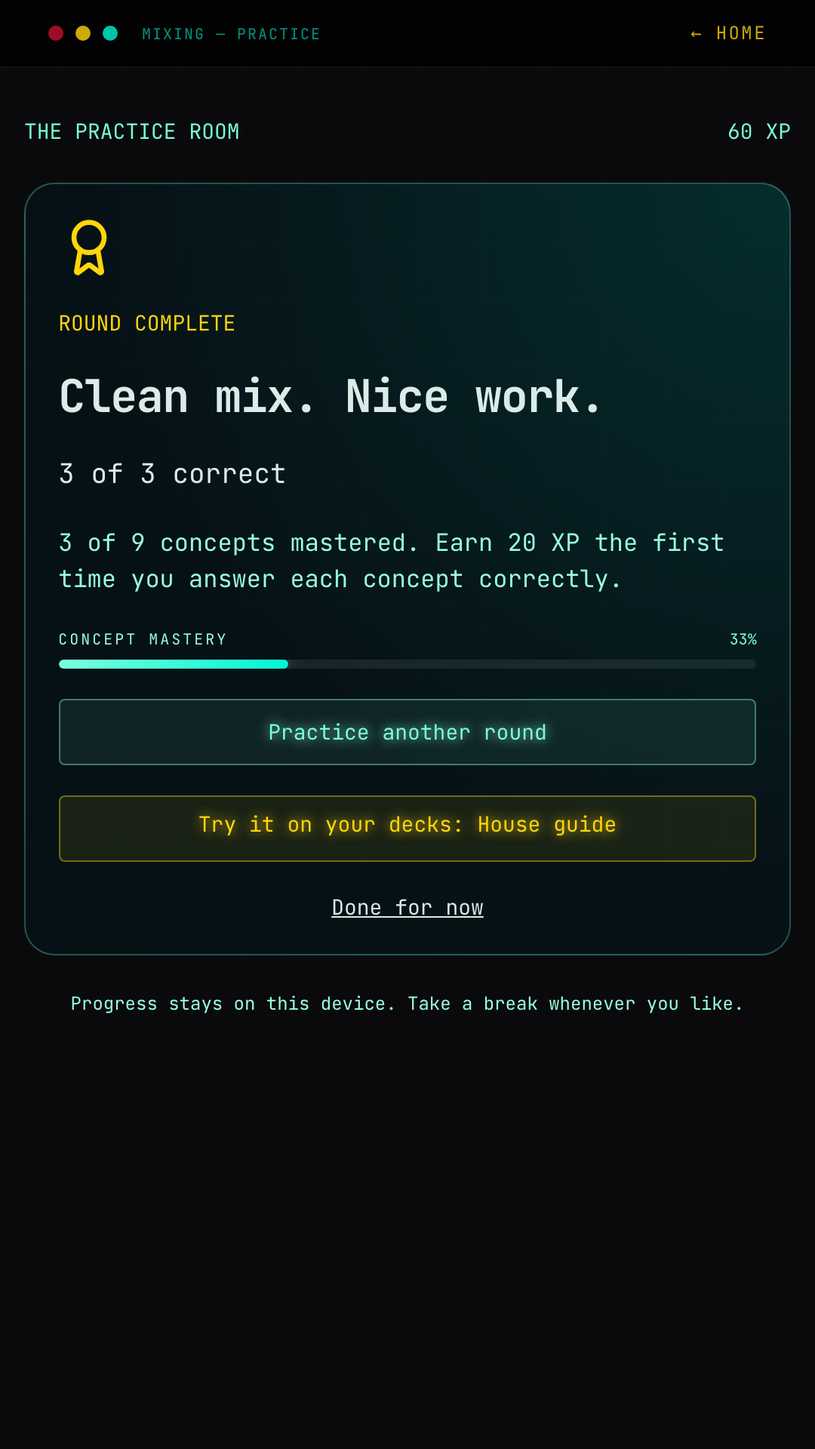
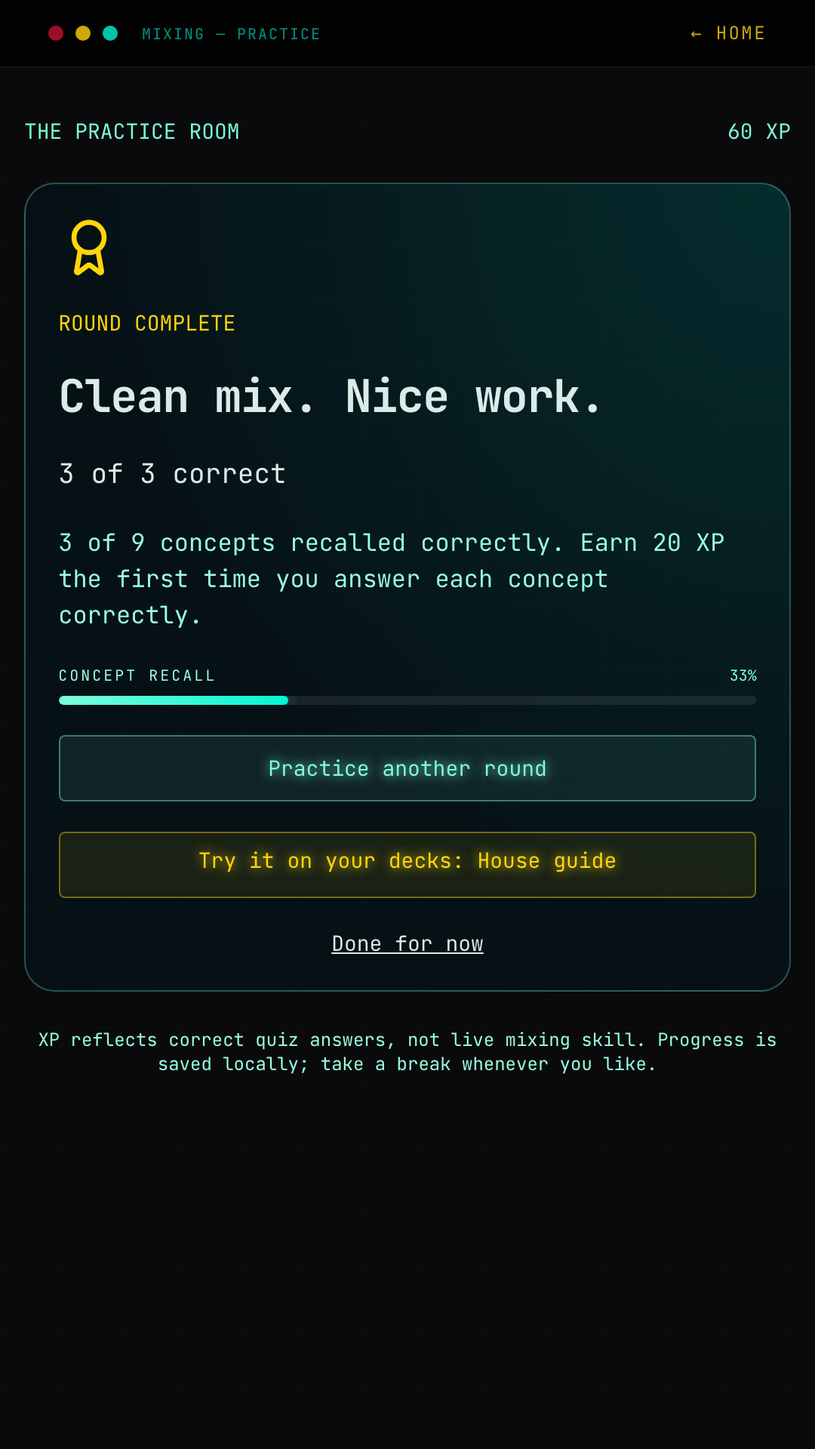
Complete conceptual practice claims and learner pilot preparation

diff --git a/src/pages/PracticePage.tsx b/src/pages/PracticePage.tsx
@@ -38,8 +38,8 @@ export default function PracticePage() {
         <p className="text-secondary text-sm">ROUND COMPLETE</p>
         <h1 ref={headingRef} id="result-heading" tabIndex={-1} className="text-3xl font-bold">{score === 3 ? 'Clean mix. Nice work.' : 'Every mix teaches you something.'}</h1>
         <p className="text-lg">{score} of 3 correct</p>
-        <p className="text-muted-foreground">{state.mastered.length} of {questions.length} concepts mastered. Earn 20 XP the first time you answer each concept correctly.</p>
-        <ProgressBar progress={state.mastered.length / questions.length * 100} label="Concept mastery" />
+        <p className="text-muted-foreground">{state.mastered.length} of {questions.length} concepts recalled correctly. Earn 20 XP the first time you answer each concept correctly.</p>
+        <ProgressBar progress={state.mastered.length / questions.length * 100} label="Concept recall" />
         <button className="btn-neon-primary w-full" onClick={() => { setReview(null); update(startRound(state)); }}>Practice another round</button>
         <Link to="/genre/house" className="btn-neon-secondary block text-center">Try it on your decks: House guide</Link>
         <Link to="/" className="block text-center text-sm underline">Done for now</Link>
@@ -60,7 +60,7 @@ export default function PracticePage() {
           <button className="btn-neon-primary w-full" onClick={() => setReview(null)}>{active.answers.length === 3 ? 'See my results' : 'Next question'}</button>
         </div>}
       </section>}
-      <p className="text-xs text-muted-foreground text-center">Progress stays on this device. Take a break whenever you like.</p>
+      <p className="text-xs text-muted-foreground text-center">XP reflects correct quiz answers, not live mixing skill. Progress is saved locally; take a break whenever you like.</p>
     </main>
   </div>;
 }

diff --git a/src/pages/Index.tsx b/src/pages/Index.tsx
@@ -69,7 +69,7 @@ const Index = () => {
         <section className="practice-panel practice-hero">
           <div className="flex flex-wrap items-center justify-between gap-3 text-xs text-primary">
             <span>YOUR NEXT GREAT MIX STARTS HERE</span>
-            <span>{practice.mastered.length * 20} XP · {practice.mastered.length}/{questions.length} mastered</span>
+            <span>{practice.mastered.length * 20} XP · {practice.mastered.length}/{questions.length} recalled</span>
           </div>
           <h1 className="mt-5 text-3xl sm:text-5xl font-bold leading-tight max-w-xl">Less guessing.<br /><span className="text-primary">Better mixing.</span></h1>
           <p className="mt-4 max-w-lg text-sm sm:text-base text-muted-foreground leading-relaxed">Build your DJ instincts, one small win at a time. Learn a move, make a decision, then try it on your decks.</p>

diff --git a/tests/practice.test.ts b/tests/practice.test.ts
@@ -52,3 +52,18 @@ describe('resilient saved checklists', () => {
     expect(writeStorage('missing', {})).toBe(false);
   });
 });
+
+describe('recall evidence across repeat practice', () => {
+  it('caps rewards at nine unique concepts across repeated rounds and persisted reloads', () => {
+    let state = emptyPractice;
+    for (let round = 0; round < 6; round++) {
+      state = startRound(parsePractice(JSON.parse(JSON.stringify(state))));
+      for (const id of state.active!.ids) {
+        state = answerQuestion(state, questions.find(question => question.id === id)!.answer);
+      }
+      expect(state.mastered.length * 20).toBe(Math.min(round + 1, 3) * 60);
+    }
+    expect(state.rounds).toBe(6);
+    expect(state.mastered).toHaveLength(9);
+  });
+});

diff --git a/tests/e2e/app.spec.ts b/tests/e2e/app.spec.ts
@@ -19,8 +19,10 @@ test('practice loop, reload, rewards, and return home', async ({ page }) => {
   await page.getByRole('button', { name: 'See my results' }).click();
   await expect(page.getByText('2 of 3 correct')).toBeVisible();
   await expect(page.getByText('40 XP', { exact: true })).toBeVisible();
+  await expect(page.getByText(/XP reflects correct quiz answers, not live mixing skill/)).toBeVisible();
+  await expect(page.getByText(/2 of 9 concepts recalled correctly/)).toBeVisible();
   await page.getByRole('link', { name: 'Done for now' }).click();
-  await expect(page.getByText(/40 XP · 2\/9 mastered/)).toBeVisible();
+  await expect(page.getByText(/40 XP · 2\/9 recalled/)).toBeVisible();
   expect(errors).toEqual([]);
 });
 

diff --git a/docs/learner-pilot.md b/docs/learner-pilot.md
@@ -1,0 +1,60 @@
+# Learner pilot and manual measurement — DJ-04
+
+Status: prepared, not recruited or run. Owner: product owner; moderator/educator must be assigned before invitations. Ten consenting beginner DJs, a 15–20 minute first session, and one voluntary follow-up on another day within seven days. No accounts, telemetry, device identifiers, cookies for marketing, or contact collection are added to the app.
+
+## Experiment card
+
+Hypothesis: conceptual questions plus explanations help beginners articulate a concept and identify a next practice task. Current flow is the control; do not change rewards, question order, and sales copy simultaneously. Use a tested build and a verified destination chosen before recruitment. Day 0 begins only after consent, facilitator availability, and outreach authorization, not today's document date.
+
+Proposed cap: zero ad spend and zero paid recruitment; up to five moderator hours plus two review hours. This is a preparation cap, not authorization to buy expert time. Stop on data loss, misleading audio-analysis expectations, inaccessible core controls, or a materially wrong explanation. Correct and retest before further invitations.
+
+Targets (decision rules, not effectiveness claims): 8/10 complete without help, 6/10 explain a transfer concept afterward, and 4/10 return on another day within seven days. Report all counts and uncertainty. If completion fails, fix the earliest friction before marketing. If completion succeeds but transfer fails, revise explanation/content with an educator. If first value succeeds but return is low, investigate real practice opportunities before developing a paid pack. Meeting targets permits discussing the next bounded study, not claiming statistical significance or automatic launch permission.
+
+## Invitation draft — unsent
+
+“I’m preparing a small feedback session for beginner DJs using LearnToDJ. It offers short conceptual questions and guides; it does not analyze your audio. Would you be interested in trying one round and explaining what you took from it? It takes about 15–20 minutes, with an optional follow-up within a week. This is product feedback, not a request for a public review or a sales commitment.”
+
+No recipient/contact list is included. Verify the demo destination before adding a link. Recruitment and sending need authorization.
+
+## Moderator run sheet
+
+1. Explain voluntary participation, ability to stop/skip, and planned notes. Ask before observing the screen. Do not record audio/video by default; no music uploads or personal library details are needed. Keep contact/consent records in the owner's existing private research system, never in this repo.
+2. Ask: “When did you last practice? Which concept caused difficulty? What did you use to work it out?” Record generalized friction, not identifiable quotes without permission.
+3. Start from the existing home screen without coaching. Ask the learner to complete a round, read an explanation, and find something to try in a guide. Note any assistance. Incorrect quiz answers do not mean the task failed.
+4. Ask one transfer prompt without showing the quiz wording: “You missed your planned entrance while the outgoing track is still stable. What would you consider doing next, and why?”
+5. Educator rubric: pass if the learner independently explains waiting for a suitable musical boundary and preserving a stable outgoing mix; do not require exact phrasing or penalize a musically valid alternative. Partial/uncertain if they name an action without a reason; fail if they force an arbitrary entrance and cannot explain the tradeoff. A qualified educator must approve this rubric before use. This tests explanation, not live performance.
+6. Ask: “Which idea would you try next on your equipment? What did you think the XP meant? Did you expect this app to listen to audio?” Record confusion and repeat mistakes rather than only scores.
+7. Invite an optional return on a different calendar day within seven days. Do not add reminders or contact users without agreed follow-up permission. A learner report is labeled self-reported, not independently instrumented.
+8. At follow-up ask what they practiced, whether they completed another round, and what remained unclear. Missing responses are unknown; do not invent returns from stored round counts.
+
+## Manual measurement contract — no app events emitted
+
+| Proposed name | Observable trigger | Manual counting rule |
+| --- | --- | --- |
+| `practice_started` | Learner selects Start practice and sees question one | Once per observed round; exclude facilitator QA |
+| `round_completed` | Results appear after three answers | Once per round; reload of same results is not a new completion |
+| `explanation_viewed` | Explanation is visible and learner says they reviewed it | Count distinct question explanations per round; rendering alone is not comprehension |
+| `guide_opened` | A real related guide renders | Once per observed guide visit; distinguish from checking an item |
+| `practice_returned` | Another completed round on a different day within seven days | Once per learner in the follow-up window, voluntary observation or labeled self-report |
+
+The producer is the moderator, not app code. Persistence is private study notes and aggregate counts only; no transmission from the app. Participants can decline notes/follow-up. Do not invent analytics consent screens for nonexistent tracking. Full URLs, names, emails, recordings and free-form personal notes never enter this repository. Any operational retention/deletion promise for study records must be agreed by the owner before consent.
+
+Report completion and transfer out of all ten starters, retaining abandonments in the denominator. Report return as confirmed returns / learners with an elapsed seven-day window, plus missing follow-ups separately. Before the window matures, say “not yet observable.” Show observed versus self-reported returns separately. Optional source (“instructor”, “demo”, “other”, “prefer not to say”) is voluntary; unknown remains unknown. No fingerprinting or inferred cross-device identity.
+
+## Blank aggregate scorecard
+
+Build/platform: pending selected pilot build
+Cohort dates: not started
+Eligible starters: not collected
+Unassisted completions / starters: not collected
+Transfer pass / starters: not collected
+Elapsed-window learners: not yet observable
+Observed returns / elapsed-window learners: not collected
+Self-reported returns / elapsed-window learners: not collected
+Missing follow-ups: not collected
+Assisted sessions, failures, confusion themes, support minutes: not collected
+Decision: pending actual observations
+
+## Offer interview after the task
+
+Ask what they already use or pay for, what they would stop using, and what they would need before paying. Then show the clearly hypothetical pack in [paid-content research](paid-content-research.md). Ask them to describe missing value and compare a one-time $9, $14, or $19 price against their alternative; rotate the starting price between sessions. Say “this pack does not exist for sale.” Do not take orders, cards, deposits, or create scarcity. Enthusiasm and stated willingness to pay are not purchases. Preserve the existing content while researching.

diff --git a/docs/gtm-prd.md b/docs/gtm-prd.md
@@ -1,0 +1,58 @@
+# LearnToDJ: conceptual practice PRD and execution record
+
+Adopted from the product-specific GTM handoff, September 16, 2026. Public product name is **LearnToDJ**; “Learn2DJ” was a planning alias, not a rename. This product-only adaptation contains no private portfolio research, contacts, or transcript copies. Owner: product owner and this repository's maintainer. Status: initial preparation locally implemented; no campaign launched.
+
+## Customer, promise, and boundaries
+
+For beginner DJs between hands-on sessions: understand one concept, answer a short challenge, and identify a related task to try on their equipment. Promise: **Practice a DJ concept in a short challenge.** Entry: existing home challenge → `/practice` → three questions → explanations → related House guide → another round later.
+
+A correct quiz answer is recall evidence, not observed mixing skill. The app does not listen to audio, analyze uploaded tracks, operate decks, certify competence, or provide a licensed commercial music library. Existing no-account use, local persistence, offline behavior, guides, and content remain available. Monetization is undecided; no forever-free promise or paywall is introduced.
+
+## Acceptance and evidence
+
+- Incorrect answers receive an explanation; partial rounds survive reload; unavailable/malformed storage does not crash the learning path.
+- A concept earns 20 XP on its first correct answer only. Replaying all nine concepts cannot exceed 180 XP. “Recalled” now replaces public “mastered” language, and results explicitly distinguish quiz XP from live mixing ability. The legacy storage field `mastered` remains for compatibility, with no migration or lost progress.
+- Checklist progress is a user's self-report. Checklist resets exist; practice has no global erase control. Clearing site/app storage is the documented full-reset fallback and removes all local progress. Do not demonstrate reset on a learner's device without their intent.
+- First value requires both round completion and a successful explanation of a transfer question during the pilot. A screenshot of 60 XP alone is not learning evidence.
+- Another-day use is measured only by voluntary observation/confirmation; stored round count has no day timestamps and cannot prove retention.
+
+## Claims and platform register
+
+| Claim | Allowed wording and evidence | Boundary / recheck trigger |
+| --- | --- | --- |
+| Three-question practice | Current nine-question bank, explanations, and round state; unit + browser checks | Content changes require answer/explanation review |
+| Progress | Saved locally; first correct response per concept earns XP | Browser eviction, data clear, origin changes, and OS backup affect persistence |
+| Recall | Correct answers recorded for concepts | No audio-performance assessment or effectiveness claim |
+| Offline | Bundled content; existing Chrome offline tests and loaded WebKit navigation | Safari cold offline/native installed behavior needs device verification |
+| Android | Local debug APK/unsigned AAB from earlier candidate | Not signed for studio publication; earlier candidate predates this copy repair |
+| iOS | Source/assets and sync prepared | No current signed archive/TestFlight/device proof |
+| Pricing | No checkout or paid offer activated; potential content pack under research | Do not call app permanently free or show an invented price |
+| Store images | Existing original artwork and labeled mobile-web drafts | No claim of native screenshot provenance |
+
+Use [store packet](store-packet.md), [Android candidate](android-candidate.md), and [privacy facts](privacy-data-safety.md) as canonical evidence. No public production destination was verified during this slice. `/practice` is the intended relative route, not an approved public URL.
+
+## Acquisition and measurement decision
+
+Prepare three educator-led challenge clips for a possible YouTube Shorts test, based on the current conceptual question bank. This is a channel hypothesis, not audience validation. No simultaneous campaign is activated. Content review, a working public destination, permission for outreach/publication, and available campaign capacity precede launch.
+
+Use the [pilot and measurement packet](learner-pilot.md) instead of installing analytics. Use the [content scripts](lesson-demo-scripts.md) for a reviewable next creative action. Research an optional, reviewed one-time practice-material pack using the [commercial boundary](paid-content-research.md); no payment/account implementation in this slice.
+
+## Existing ticket handoff record
+
+| Ticket | Result | Remaining gate |
+| --- | --- | --- |
+| DJ-01 | Local: name reconciled; public recall claims repaired; store copy/assets reused and refreshed | Review/merge and public destination verification |
+| DJ-02 | Local: first-round/explanation/reload tests and repeat-reward regression; no added telemetry | Actual learner transfer and another-day behavior; signed native verification |
+| DJ-03 | Prepared: three timed scripts, shot references, captions, rights and reviewer checklist | Qualified educator review, recording approval and publication authorization |
+| DJ-04 | Prepared: ten-learner study, scoring rubric, voluntary measurement, interview script and cost/time cap | Consent, recruitment permission, real observations; no participants recruited |
+| DJ-05 | Prepared: paid-material desk research, proposed contents, cost sensitivity and delivery/restore requirements | Value evidence, authored/reviewed material, price/provider/rights decisions |
+
+No ticket's preparation status means pilot success, monetization validation, merged code, deployed site, or store release. The shared portfolio tracker remains owned by the coordinating task.
+
+Repository reconciliation: AGENTS.md, SOUL.md and USER.md were absent at the repository root; supplied task guidance, CLAUDE.md and docs/INDEX.md were read. The working tree was clean before this slice. Fetched origin/main remains 9eec17d; the existing local preparation branch is preserved and nothing is pushed or merged. The post-commit hook can auto-push main, so local commits use a per-command disabled hooks path.
+
+## Recovery verification — September 16
+
+The prior task stopped at a usage limit with these edits uncommitted. The portfolio reconciliation reviewed and completed the existing bounded change. npm run check passes: 14 unit tests, app/tool typechecks, lint with zero errors and seven existing warnings, and production/PWA build. Mobile Chromium/WebKit: 11 browser tests passed, one existing WebKit cold-offline test deliberately skipped. Store asset validation passes; updated home/result screenshots were visually reviewed and document links checked. React review found copy/accessible-label changes only; scoring/storage contracts remain unchanged.
+
+No native rebuild, signed-device verification, provider change, push, merge or deployment occurred in recovery. Existing native candidates predate this copy change. Local completion does not prove learning outcomes, live mixing performance or pilot retention.

diff --git a/docs/paid-content-research.md b/docs/paid-content-research.md
@@ -1,0 +1,58 @@
+# Paid practice-material boundary — DJ-05
+
+Status: desk research and interview proposal, September 16, 2026. LearnToDJ is **not confirmed permanently free**. No price, checkout, subscription, account requirement, entitlement, purchase button, or content restriction is activated. Existing practice and guides remain unchanged in availability.
+
+## Observed alternatives and limits
+
+- [Crossfader's Complete DJ Package](https://wearecrossfader.co.uk/complete-dj) advertises a broad course bundle with lifetime access, equipment-specific courses, a transitions library, and instructor support. This is evidence of a structured learning offer, not proof of its sales or of demand for our much smaller practice tool.
+- [Digital DJ Tips' Access All Areas](https://www.digitaldjtips.com/access-all-areas-benefits/) describes an extensive DJ/production course library with lifetime learning access. Again, scope and instructor value differ substantially from nine recall questions.
+- Crossfader also offers [free beginner preview material](https://wearecrossfader.co.uk/blog/the-complete-dj-course-free/). A paid pack competes with useful free instruction as well as courses; simply adding more quiz questions may not justify a purchase.
+
+These are provider descriptions checked for offer structure, not independently verified outcomes, endorsements, or a comprehensive market study. Do not copy lessons, footage, sound packs, or testimonials. No competitor price is used as a validated willingness-to-pay estimate for LearnToDJ. Recheck current terms before a later comparison.
+
+Inference to test: a narrowly scoped, educator-reviewed practice pack may help learners move from recall to a repeatable hands-on exercise without buying a large course. Whether anyone values that enough to pay remains unknown.
+
+## Interview stimulus — not available for sale
+
+Working concept: **Phrase & Transition Practice Pack**, proposed one-time $9–19 research range. Test $9, $14, and $19 as separate interview prompts, not a published price, discount, or purchase commitment. Do not describe the existing app as a trial or remove existing content to create artificial demand.
+
+Proposed deliverables to author and review before any sale:
+
+- Six structured practice cards spanning phrase entry, cueing, bass handoff, gain, recovery and exit timing; each states setup, action, what to listen for, and common errors.
+- Eighteen new conceptual/transfer questions with explanations and a mapping to the cards; avoid cosmetic rewordings of the nine existing questions.
+- Six original diagrams or silent demonstrations. Audio examples are optional and require owned/licensed composition, recording and distribution rights; no commercial track library is assumed.
+- One printable session worksheet and an instructor-reviewed explanation key, with version/date and corrections route.
+- A clear statement of prerequisites and limits: no live feedback, personalized performance grading, certification, or promised improvement.
+
+## Content and rights register required before implementation
+
+For each item record author, reviewer, factual/source basis, version, accessibility text/captions, license owner, permitted platforms/territories, redistribution terms and any expiry. Unapproved rows cannot ship. Reviewer time is a cost; “reviewed” cannot mean only that automated tests passed. Product-owned artwork can be reused; private contacts and contracts stay outside git.
+
+## Delivery work before payment activation
+
+1. Decide whether a downloadable pack or native digital-content entitlement best fits observed learner needs. No provider, account or identifier is selected here.
+2. Complete content and learner review first. Define exactly which items/version the buyer receives and what future updates, support, refund handling and access duration mean; make no lifetime-content-production promise by default.
+3. Review applicable platform purchase/delivery rules for the chosen distribution at implementation time. Do not route around store rules or assume one payment flow fits every platform.
+4. Verify paid success → correct access, cancelled/failed/pending/duplicate payment → honest state, reinstall/restore on the supported platform, offline availability, refunds/revocation, and support recovery. Signed native tests are required for a native offer.
+5. Preserve existing local progress and access. If an account ever becomes necessary, it requires a separate privacy/auth decision rather than speculative implementation now.
+6. Only after value, rights, delivery, support and publisher decisions: prepare a concrete provider integration proposal. This research does not authorize activating it.
+
+A $3–6/month subscription remains a later interview option only if sustained use and funded ongoing reviewed content justify it. Educator licensing depends on observed class use and explicit permitted reuse, not a rebranded consumer pack.
+
+## Transparent cost sensitivity — illustrative USD, not a quote
+
+Assumptions for discussion: 12 authoring hours × $30 = $360; four educator-review hours × $60 = $240; fixed preparation cost $600. Assume a combined 20% allowance for platform/payment fees and refunds, $0.25 variable delivery cost, and five support minutes × $30/hour = $2.50 per buyer. None of these rates, fees or demand numbers is validated. Taxes, acquisition, ongoing updates and overhead are excluded and would lower contribution further.
+
+Contribution before excluded costs = `price × 0.80 − 0.25 − 2.50`.
+
+| Hypothetical price | Contribution per buyer | Buyers to recover $600 fixed cost |
+| --- | --- | --- |
+| $9 | $4.45 | 135 |
+| $14 | $8.45 | 72 |
+| $19 | $12.45 | 49 |
+
+This is arithmetic sensitivity, not revenue forecast or a promise of profitability. Replace assumptions with actual reviewer quotes, chosen-channel fees, support observations and refund experience before a commercial decision. No spending was made or authorized.
+
+## Decision after research
+
+Use the [learner pilot](learner-pilot.md): record current alternatives, missing value, price objections, specific next practice opportunity, and willingness to evaluate a completed sample. Do not label hypothetical agreement a sale. If the existing concept explanations are confusing, fix them before authoring a paid pack. If a reviewed sample is useful but the delivery/reuse need is unclear, continue interviews rather than adding subscription machinery.

diff --git a/docs/lesson-demo-scripts.md b/docs/lesson-demo-scripts.md
@@ -1,0 +1,60 @@
+# Lesson demonstration scripts — drafts only
+
+Owner: product owner; factual reviewer: qualified DJ educator, not yet assigned. Intended channel: possible YouTube Shorts test, inactive. Each script shows conceptual recall in the actual app, not a tool listening to music. No copyrighted tracks, third-party footage, endorsements, or paid relationships have been added. Record original narration and current app UI; silence is acceptable underneath. Keep captions readable with sound off. Do not use unrelated deck footage to imply app playback.
+
+Use [capture manifest](../assets/store/android/mobile-web-drafts/capture-manifest.json) and [store packet](store-packet.md). These are mobile-web draft previews, not native captures. Exact destination is pending verified public origin plus `/practice`. Local preview is for review only. Creative IDs are manual source labels; no tracking URLs or attribution service are active. Publication URL/date and outcomes remain empty until real publication.
+
+## DJ-C01 — When should the next track enter? (DJ-03)
+
+Hypothesis: a specific phrasing decision makes the learning task understandable before opening the app.
+
+- 0–3s, question screen (`02-question.png`): “Your next track is cued. When would you bring it in?”
+- 3–8s, hold the three real options: “Choose a musical phrase, a loud waveform, or the middle of a vocal line.”
+- 8–18s, tap the actual phrase answer, show explanation (`03-explanation.png`): “Starting on beat one of a new phrase helps musical changes line up. Listen for the structure; don't rely only on loudness.”
+- 18–25s, related guide: “LearnToDJ gives you a short conceptual question and an explanation. It doesn't listen to or grade your mix.”
+- 25–30s, app result: “Try a practice round.” Add a destination only after it is verified and publication approved.
+
+Caption draft: “One phrasing decision to think through before your next hands-on practice session. Concept practice in LearnToDJ; not live audio feedback.”
+
+Alt text: “A phrasing question followed by an explanation about bringing in a track at the start of a musical phrase.”
+
+Review: confirm phrasing advice is a starting point, not an absolute rule for every track. Evidence: `src/data/practice.ts`, question `phrase`. No observed learning result or professional-performance promise.
+
+## DJ-C02 — Three questions before your next session (DJ-03)
+
+Hypothesis: seeing the complete round makes the task and its limits clearer.
+
+- 0–4s, home (`01-start.png`): “Before your next DJ session, check three concepts.”
+- 4–12s, real taps in the first round: “Phrasing. A bass swap. A neighboring Camelot key.” Keep the answers and feedback in shot; edit pauses only, not results.
+- 12–21s, results (`04-round-results.png`): “This demonstration earned 60 XP by answering three concepts correctly. That's quiz recall, not proof of mixing skill.”
+- 21–28s, House guide (`05-house-checklist.png`): “Take one idea to your decks and use the checklist as a practice guide.”
+- 28–32s: “Try a practice round.”
+
+Caption draft: “Three conceptual questions, explanations, then a related guide. The shown answers belong to a recorded demonstration session.”
+
+Alt text: “A completed demonstration round and a House checklist connecting conceptual practice to hands-on work.”
+
+Review: do not describe a 60-XP result as mastery, certification, improved performance, or a typical user result. Evidence: capture script's real interactions and persisted scoring tests.
+
+## DJ-C03 — Why more bass may be the wrong answer (DJ-03)
+
+Hypothesis: a useful explanation for a wrong answer demonstrates value without promising automated coaching.
+
+- 0–4s, second question after a real first answer: “Both tracks are playing and the bass sounds muddy. Would you boost both LOW knobs?”
+- 4–10s, deliberately tap that actual wrong answer. Disclose on-screen/narration: “Demonstration: choosing a wrong answer.”
+- 10–22s, show the app's real feedback: “The lesson suggests giving one track the low end at a time. A controlled bass swap can keep the kick and bass clearer.”
+- 22–28s: “This is a concept to test by ear on your own equipment. LearnToDJ isn't analyzing your audio.”
+- 28–32s: “Try a practice round.”
+
+Caption draft: “A wrong answer can be a useful practice prompt. Review the explanation, then listen for yourself during hands-on practice.”
+
+Alt text: “The EQ question explains a controlled bass swap after a deliberately incorrect answer in a demo.”
+
+Capture action: use the existing first-round browser-test path (first correct, second wrong); record a fresh current UI session. Existing correct-answer stills cannot stand in for wrong-answer footage. No video has been recorded yet.
+
+## Ready-for-recording checklist
+
+- Educator reviews each quoted explanation and records approval/version; no reviewer endorsement invented.
+- Use only owned app artwork, original narration and expressly authorized audio if later added; retain terms outside public source where appropriate.
+- Recheck the app build, current wording, destination and screenshot provenance. Preserve subtitle margins; disclose any edited timing.
+- Obtain applicable recording/publication authorization and confirm this lane can become active. No platform upload, outreach, pricing promise or performance claim is authorized by this draft.

diff --git a/docs/store-packet.md b/docs/store-packet.md
@@ -35,7 +35,7 @@ Feature graphic alt text: LearnToDJ, practice the next transition, with teal rec
 
 Learn one mixing concept, practice a decision, then try it on your decks. LearnToDJ combines short three-question challenges with genre-specific checklists for preparing tracks and building transitions.
 
-Practice phrasing, harmonic mixing, cueing, beatgrids, levels, tempo, transitions, and recovery. Get an explanation after every answer and earn concept mastery XP as you learn. There is no timer or lives system.
+Practice phrasing, harmonic mixing, cueing, beatgrids, levels, tempo, transitions, and recovery. Get an explanation after every answer and earn concept recall XP as you learn. There is no timer or lives system.
 
 Explore preparation, playing, track structure, effects, loops, remixes, and gear guides. Save favorite genres and check off steps as you work through a mixing guide.
 
@@ -69,4 +69,4 @@ The feature graphic follows Google's 1024×500, no-alpha specification. Phone dr
 
 ## Validation result
 
-All six screenshots and the feature graphic were visually inspected. Automated checks pass for image dimensions, PNG format, alpha requirements, screenshot provenance, zero captured browser errors/overflow/external requests, and listing length (76-character short description, 869-character full description). The production web build and 13 existing unit tests pass. ESLint reports zero errors and seven existing warnings. No application logic, identity, authentication, backup policy, or native package content changed in this packet task.
+All six screenshots and the feature graphic were visually inspected. Automated checks pass for image dimensions, PNG format, alpha requirements, screenshot provenance, zero captured browser errors/overflow/external requests, and listing length (76-character short description, 868-character full description). The production web build and 14 unit tests pass. ESLint reports zero errors and seven existing warnings. No application logic, identity, authentication, backup policy, or native package content changed in this packet task.

diff --git a/docs/android-candidate.md b/docs/android-candidate.md
@@ -58,3 +58,5 @@ Android assembleDebug, bundleRelease, lintDebug, and testDebugUnitTest completed
 Native lint reports zero errors and 12 warnings: dependency update suggestions, scaffold resources reported unused, optional monochrome launcher artwork, and inherited splash density/layout conventions. Legacy launcher shape/duplicate warnings and manifest ordering were corrected. These remaining warnings do not establish device compatibility; installed-device testing is still pending. Web verification remains 13 unit tests and 11 browser tests passed (one existing WebKit cold-offline skip); web lint has seven existing warnings and zero errors.
 
 Next necessary step: choose the studio name and approve its final application ID/signing ownership, while testing the debug APK on physical Android hardware. Do not upload this unsigned bundle or debug-signed APK as a release.
+
+Source-update note: the subsequent DJ-01–05 GTM slice changes public progress wording from mastery to recall. The APK/AAB hashes above describe the earlier native candidate; rebuild and repeat native checks before using the new wording in a native pilot or matching final store screenshots.

diff --git a/docs/ux-and-testing.md b/docs/ux-and-testing.md
@@ -39,3 +39,7 @@ Native signing, device testing, and store review are separate from browser verif
 - Dependency audit: zero reported vulnerabilities after updates.
 - Web production build: passed. Native compile/device results and remaining release gates are recorded in [mobile release](mobile-release.md).
 - Native web build and Capacitor sync: passed for Android and iOS; all 17 bundled files match the build output and neither native bundle contains a service worker.
+
+## GTM claim repair — September 16, 2026
+
+Public practice progress now says “recalled” and explains that XP records correct quiz answers, not live mixing skill. The persisted `mastered` field stays unchanged for compatibility. A regression runs six rounds through serialization/reload and confirms rewards stop at nine unique concepts / 180 XP. Browser assertions check the recall wording alongside the existing wrong-answer explanation, result, and home-return flow. The pilot uses voluntary manual observation rather than adding marketing telemetry; see [the adopted PRD and ticket record](gtm-prd.md).

diff --git a/docs/INDEX.md b/docs/INDEX.md
@@ -8,3 +8,7 @@
 - [Android candidate](android-candidate.md): local build artifacts, studio identity gates, and draft listing copy.
 - [Store packet](store-packet.md): feature graphic, six mobile-web draft screenshots, listing copy, and capture validation.
 - [Privacy and Data safety facts](privacy-data-safety.md): code-grounded local storage, permissions, backup, and unresolved publisher declarations.
+- [Product GTM PRD and DJ-01–05 record](gtm-prd.md): public claims, local implementation, evidence, and preparation status.
+- [Lesson demo scripts](lesson-demo-scripts.md): three educator-review drafts with existing capture references.
+- [Learner pilot](learner-pilot.md): ten-learner study, voluntary manual measurement, and interview packet.
+- [Paid-content research](paid-content-research.md): observed alternatives, proposed material, costs, rights, and delivery gates.
